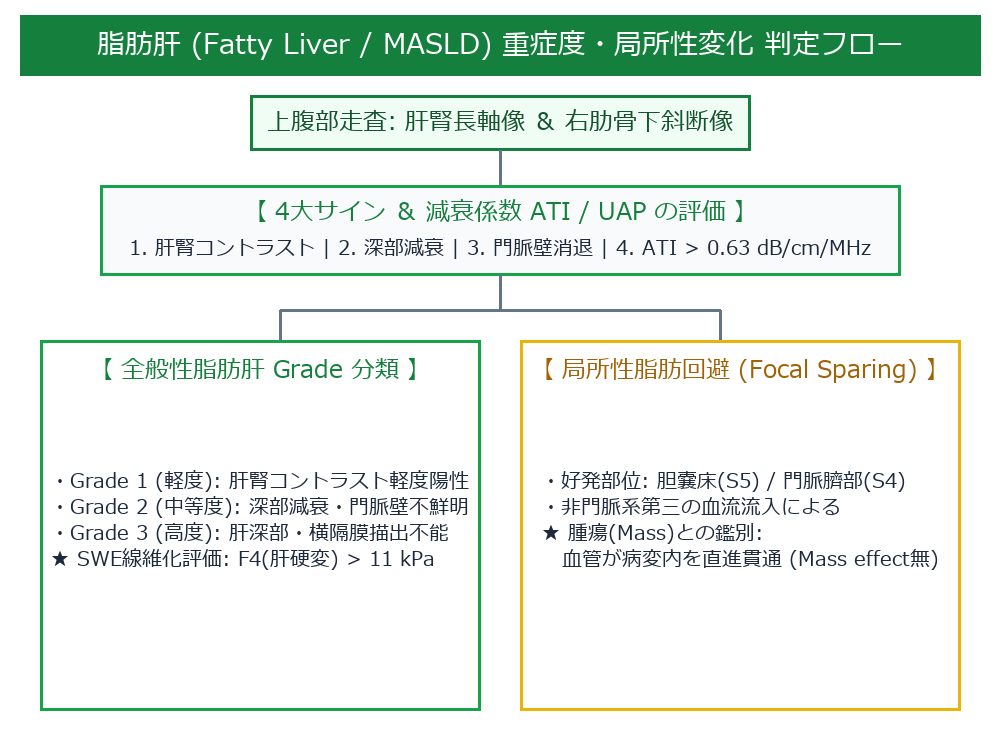
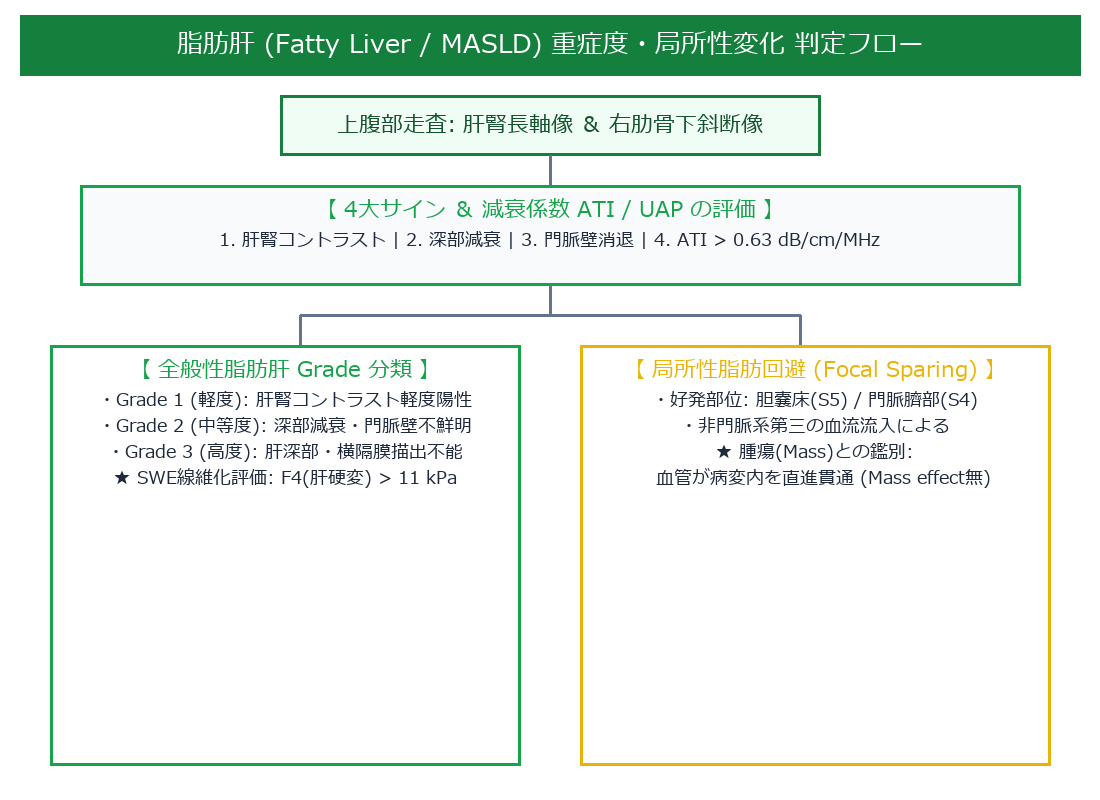
Adjust all flowchart PNG box sizes, line spacings, and canvas paddings for 100% perfect fit without text overflow

Changed region(s): [[0.031, 0.0307, 0.992, 0.9813]]

diff --git a/generate_perfect_fit_flowcharts.py b/generate_perfect_fit_flowcharts.py
@@ -1,0 +1,300 @@
+import os
+from PIL import Image, ImageDraw, ImageFont
+
+font_title = font_large = font_mid = font_small = None
+font_paths = ["C:/Windows/Fonts/meiryo.ttc", "C:/Windows/Fonts/msgothic.ttc", "C:/Windows/Fonts/arial.ttf"]
+
+for fp in font_paths:
+    if os.path.exists(fp):
+        try:
+            font_title = ImageFont.truetype(fp, 26)
+            font_large = ImageFont.truetype(fp, 22)
+            font_mid = ImageFont.truetype(fp, 18)
+            font_small = ImageFont.truetype(fp, 16)
+            break
+        except Exception:
+            continue
+
+if font_title is None:
+    font_title = font_large = font_mid = font_small = ImageFont.load_default()
+
+img_dir = r"C:\Antigravity\超音波検査\腹部超音波検査_教科書\03_疾患別超音波所見\images"
+os.makedirs(img_dir, exist_ok=True)
+
+# Helper to draw multiline centered text inside a box perfectly
+def draw_textbox(draw, box, fill_bg, outline_c, title, desc_lines, is_header=False):
+    x1, y1, x2, y2 = box
+    draw.rectangle(box, fill=fill_bg, outline=outline_c, width=3)
+    
+    # Title
+    t_y = y1 + 25 if desc_lines else (y1 + y2) // 2
+    draw.text(((x1 + x2) // 2, t_y), title, fill=outline_c if not is_header else "#ffffff", font=font_large, anchor="mm")
+    
+    # Desc lines
+    if desc_lines:
+        line_y = y1 + 55
+        for line in desc_lines:
+            draw.text(((x1 + x2) // 2, line_y), line, fill="#1e293b", font=font_mid, anchor="mm")
+            line_y += 26
+
+# 1. Pancreatic Mass (Perfect Fit)
+def make_panc_mass_fit():
+    w, h = 1100, 1000
+    img = Image.new("RGB", (w, h), (255, 255, 255))
+    draw = ImageDraw.Draw(img)
+    
+    # Header
+    draw.rectangle([(20, 15), (1080, 75)], fill="#1e3a8a")
+    draw.text((550, 45), "膵腫瘤性病変 (Pancreatic Mass) 完全分類フロー", fill="#ffffff", font=font_title, anchor="mm")
+    
+    # Root
+    draw.rectangle([(330, 95), (770, 155)], fill="#f1f5f9", outline="#1e3a8a", width=3)
+    draw.text((550, 125), "膵腫瘤性病変 (Pancreatic Mass)", fill="#1e293b", font=font_large, anchor="mm")
+    
+    # Lines
+    draw.line([(550, 155), (550, 180)], fill="#64748b", width=3)
+    draw.line([(280, 180), (820, 180)], fill="#64748b", width=3)
+    draw.line([(280, 180), (280, 205)], fill="#64748b", width=3)
+    draw.line([(820, 180), (820, 205)], fill="#64748b", width=3)
+    
+    # Category Headers
+    draw.rectangle([(50, 205), (510, 265)], fill="#dbeafe", outline="#2563eb", width=3)
+    draw.text((280, 235), "1. 固形腫瘤性病変 (Solid)", fill="#1e40af", font=font_large, anchor="mm")
+
+    draw.rectangle([(590, 205), (1050, 265)], fill="#fce7f3", outline="#db2777", width=3)
+    draw.text((820, 235), "2. 嚢胞性腫瘤性病変 (Cystic)", fill="#9d174d", font=font_large, anchor="mm")
+
+    # Left Solid Section
+    draw.rectangle([(30, 285), (530, 970)], fill="#f8fafc", outline="#94a3b8", width=2)
+    draw.text((280, 315), "【 固形腫瘤 (Solid Lesions) 】", fill="#1e3a8a", font=font_large, anchor="mm")
+
+    solid_items = [
+        ("通常型膵がん (PDAC)", ["浸潤性管がん (全体の約90%)", "低血流 / 主膵管高度拡張 (>3mm)"]),
+        ("膵神経内分泌腫瘍 (PanNET)", ["境界ナイフ様鮮明 / 多血性(Hyper)", "血流極めて豊富 / 主膵管拡張なし"]),
+        ("Solid Pseudopapillary (SPN)", ["10〜30代若い女性に好発", "固形 ＋ 出血壊死性嚢胞の混在"]),
+        ("自己免疫性膵炎 (AIP)", ["腫瘤形成性膵炎 (膵がん酷似)", "Capsule-like Rim / 主膵管狭小化"])
+    ]
+
+    y_start = 350
+    for title, lines in solid_items:
+        draw_textbox(draw, (50, y_start, 510, y_start + 135), "#ffffff", "#3b82f6", title, lines)
+        y_start += 150
+
+    # Right Cystic Section
+    draw.rectangle([(570, 285), (1070, 970)], fill="#f8fafc", outline="#94a3b8", width=2)
+    draw.text((820, 315), "【 嚢胞性腫瘤 (Cystic Lesions) 】", fill="#831843", font=font_large, anchor="mm")
+
+    cystic_items = [
+        ("IPMN (膵管内乳頭粘液性)", ["主膵管連通あり / 葡萄の房状", "壁結節 ≧ 5mm で即手術検討"]),
+        ("MCN (粘液性嚢胞腫瘍)", ["中年女性・膵尾部 / 厚い被膜", "潜在的悪性 (原則全例手術)"]),
+        ("SCN (漿液性嚢胞腫瘍)", ["ハニカム像 / 中央星状石灰化", "ほぼ100%良性 (経過観察)"]),
+        ("仮性嚢胞 (Pseudocyst)", ["膵炎既往 / 単房性無エコー", "非腫瘍性嚢胞"])
+    ]
+
+    y_start = 350
+    for title, lines in cystic_items:
+        border_c = "#ec4899" if "IPMN" in title or "MCN" in title or "SCN" in title else "#6b7280"
+        draw_textbox(draw, (590, y_start, 1050, y_start + 135), "#ffffff", border_c, title, lines)
+        y_start += 150
+
+    path = os.path.join(img_dir, "pancreatic_mass_classification.png")
+    img.save(path, quality=95)
+    print("Perfect Fit: pancreatic_mass_classification.png")
+
+# 2. Cholecystitis Flow (Perfect Fit)
+def make_chole_fit():
+    w, h = 1100, 800
+    img = Image.new("RGB", (w, h), (255, 255, 255))
+    draw = ImageDraw.Draw(img)
+    
+    draw.rectangle([(20, 15), (1080, 75)], fill="#991b1b")
+    draw.text((550, 45), "TG18/13 急性胆嚢炎 (Cholecystitis) 診断フロー", fill="#ffffff", font=font_title, anchor="mm")
+    
+    draw_textbox(draw, (280, 95, 820, 155), "#fee2e2", "#991b1b", "右上腹部痛 ＋ 発熱 ＋ 炎症反応陽性", [], True)
+    draw.rectangle([(280, 95), (820, 155)], fill="#fee2e2", outline="#991b1b", width=3)
+    draw.text((550, 125), "右上腹部痛 ＋ 発熱 ＋ 炎症反応陽性", fill="#7f1d1d", font=font_large, anchor="mm")
+
+    draw.line([(550, 155), (550, 185)], fill="#64748b", width=3)
+    
+    draw_textbox(draw, (80, 185, 1020, 285), "#f8fafc", "#dc2626", "【 Bモード4大サインの評価 】", [
+        "1. 壁肥厚 >3mm | 2. 二重壁像 (浮腫状層) | 3. 胆嚢腫大 (短径≧4cm) | 4. 嵌頓結石"
+    ])
+    
+    draw.line([(550, 285), (550, 315)], fill="#64748b", width=3)
+    
+    draw_textbox(draw, (150, 315, 950, 405), "#fef2f2", "#b91c1c", "直視下 探触子圧迫試行", [
+        "超音波 Murphy 徴候 陽性 (胆嚢直上で痛覚最高潮 ＋ 吸気中断)"
+    ])
+    
+    draw.line([(550, 405), (550, 435)], fill="#64748b", width=3)
+    draw.line([(300, 435), (800, 435)], fill="#64748b", width=3)
+    draw.line([(300, 435), (300, 465)], fill="#64748b", width=3)
+    draw.line([(800, 435), (800, 465)], fill="#64748b", width=3)
+    
+    draw_textbox(draw, (50, 465, 520, 760), "#ffffff", "#dc2626", "★ 急性胆嚢炎 確診 (確定)", [
+        "・早期腹腔鏡下胆嚢摘出術 (Lap-C) 検討",
+        "・壊疽性サイン (壁連続性断裂/脱落膜)",
+        "・気腫性サイン (Dirty shadow/Ring-down)"
+    ])
+    
+    draw_textbox(draw, (580, 465, 1050, 760), "#ffffff", "#64748b", "慢性胆嚢炎 / 他疾患の考慮", [
+        "・胆嚢壁全周性高度線維化肥厚",
+        "・Porcelain GB (陶器様胆嚢石灰化)",
+        "・肝炎 / 右心不全による二次性壁浮腫鑑別"
+    ])
+    
+    path = os.path.join(img_dir, "cholecystitis_flowchart.png")
+    img.save(path, quality=95)
+    print("Perfect Fit: cholecystitis_flowchart.png")
+
+# 3. Hydronephrosis (Perfect Fit)
+def make_hydro_fit():
+    w, h = 1100, 780
+    img = Image.new("RGB", (w, h), (255, 255, 255))
+    draw = ImageDraw.Draw(img)
+    
+    draw.rectangle([(20, 15), (1080, 75)], fill="#4c1d95")
+    draw.text((550, 45), "水腎症 (Hydronephrosis) SFU Grade 1～4 判定フロー", fill="#ffffff", font=font_title, anchor="mm")
+    
+    y = 105
+    grades = [
+        ("Grade 1 (軽度)", ["腎盂のみの分離・軽度拡張 (Pelvis Expansion Only)", "腎杯拡張なし / 腎実質厚正常"], "#f3e8ff", "#6b21a8"),
+        ("Grade 2 (中等度)", ["腎盂拡張 ＋ 主要腎杯 (Major Calyces) の軽度拡張", "腎実質厚正常"], "#e9d5ff", "#6b21a8"),
+        ("Grade 3 (高度)", ["腎盂 ＋ 全腎杯 (Minor Calyces) 水疱状・クラゲ様拡張", "腎実質厚は保たれる"], "#d8b4fe", "#581c87"),
+        ("Grade 4 (重症)", ["全腎杯極度拡張 ＋ ★ 腎実質の菲薄化 (実質厚 < 10mm)", "腎機能不可逆的障害の危険信号"], "#fee2e2", "#991b1b")
+    ]
+    
+    for title, lines, bg_c, text_c in grades:
+        draw_textbox(draw, (50, y, 1050, y + 140), bg_c, text_c, title, lines)
+        y += 160
+        
+    path = os.path.join(img_dir, "hydronephrosis_sfu_flowchart.png")
+    img.save(path, quality=95)
+    print("Perfect Fit: hydronephrosis_sfu_flowchart.png")
+
+# 4. GB Polyps & ADM (Perfect Fit)
+def make_gb_polyps_fit():
+    w, h = 1100, 800
+    img = Image.new("RGB", (w, h), (255, 255, 255))
+    draw = ImageDraw.Draw(img)
+    
+    draw.rectangle([(20, 15), (1080, 75)], fill="#065f46")
+    draw.text((550, 45), "胆嚢隆起性病変・ADM 超音波鑑別 10mm アルゴリズム", fill="#ffffff", font=font_title, anchor="mm")
+    
+    draw.rectangle([(300, 95), (800, 155)], fill="#ecfdf5", outline="#065f46", width=3)
+    draw.text((550, 125), "胆嚢腔内 隆起性病変 / 壁肥厚の検出", fill="#065f46", font=font_large, anchor="mm")
+    
+    draw.line([(550, 155), (550, 185)], fill="#64748b", width=3)
+    draw.line([(280, 185), (820, 185)], fill="#64748b", width=3)
+    draw.line([(280, 185), (280, 215)], fill="#64748b", width=3)
+    draw.line([(820, 185), (820, 215)], fill="#64748b", width=3)
+    
+    draw_textbox(draw, (50, 215, 510, 485), "#f0fdf4", "#16a34a", "【 病変径 < 10.0 mm (1cm未満) 】", [
+        "・コレステロールポリープ (90%以上)",
+        "  (桑実像 Mulberry / 有茎性 / 微小点状高エコー)",
+        "・超音波経過観察 (6〜12ヶ月毎)",
+        "・急増傾向がないかチェック"
+    ])
+    
+    draw_textbox(draw, (590, 215, 1050, 485), "#fef2f2", "#dc2626", "【 病変径 ≧ 10.0 mm (1cm以上) 】", [
+        "・胆嚢がん (Carcinoma) / 腺腫疑い",
+        "・広基性 (Broad-based) / 茎が太い像",
+        "・壁層構造の断裂・局所浸潤像",
+        "★ EUS (超音波内視鏡) ＆ 手術検討"
+    ])
+    
+    draw_textbox(draw, (50, 515, 1050, 765), "#eff6ff", "#2563eb", "【 胆嚢腺筋腫症 (ADM: Adenomyomatosis) の鑑別 】", [
+        "・Comet-tail Artifact (RAS内コレステロール結晶による彗星の尾様多重反射)",
+        "・壁内無エコー像 (Anechoic Microcysts: 1〜3mmの小嚢胞)",
+        "・3形態分類: 1. 底部型 (Fundal) | 2. 節状型 (Segmental) | 3. びまん型 (Diffuse)"
+    ])
+    
+    path = os.path.join(img_dir, "gb_polyps_adm_flowchart.png")
+    img.save(path, quality=95)
+    print("Perfect Fit: gb_polyps_adm_flowchart.png")
+
+# 5. Fatty Liver (Perfect Fit)
+def make_fatty_fit():
+    w, h = 1100, 800
+    img = Image.new("RGB", (w, h), (255, 255, 255))
+    draw = ImageDraw.Draw(img)
+    
+    draw.rectangle([(20, 15), (1080, 75)], fill="#15803d")
+    draw.text((550, 45), "脂肪肝 (Fatty Liver / MASLD) 重症度・局所性変化 判定フロー", fill="#ffffff", font=font_title, anchor="mm")
+    
+    draw.rectangle([(280, 95), (820, 155)], fill="#f0fdf4", outline="#15803d", width=3)
+    draw.text((550, 125), "上腹部走査: 肝腎長軸像 ＆ 右肋骨下斜断像", fill="#14532d", font=font_large, anchor="mm")
+    
+    draw.line([(550, 155), (550, 185)], fill="#64748b", width=3)
+    
+    draw_textbox(draw, (80, 185, 1020, 285), "#f8fafc", "#16a34a", "【 4大サイン ＆ 減衰係数 ATI / UAP の評価 】", [
+        "1. 肝腎コントラスト | 2. 深部減衰 | 3. 門脈壁消退 | 4. ATI > 0.63 dB/cm/MHz"
+    ])
+    
+    draw.line([(550, 285), (550, 315)], fill="#64748b", width=3)
+    draw.line([(300, 315), (800, 315)], fill="#64748b", width=3)
+    draw.line([(300, 315), (300, 345)], fill="#64748b", width=3)
+    draw.line([(800, 315), (800, 345)], fill="#64748b", width=3)
+    
+    draw_textbox(draw, (50, 345, 520, 765), "#ffffff", "#16a34a", "【 全般性脂肪肝 Grade 分類 】", [
+        "・Grade 1 (軽度): 肝腎コントラスト軽度陽性",
+        "・Grade 2 (中等度): 深部減衰・門脈壁不鮮明",
+        "・Grade 3 (高度): 肝深部・横隔膜描出不能",
+        "★ SWE線維化評価: F4(肝硬変) > 11 kPa"
+    ])
+    
+    draw_textbox(draw, (580, 345, 1050, 765), "#ffffff", "#eab308", "【 局所性脂肪回避 (Focal Sparing) 】", [
+        "・好発部位: 胆嚢床(S5) / 門脈臍部(S4)",
+        "・非門脈系第三の血流流入による",
+        "★ 腫瘍(Mass)との鑑別:",
+        "   血管が病変内を直進貫通 (Mass effect無)"
+    ])
+    
+    path = os.path.join(img_dir, "liver_fatty_flowchart.png")
+    img.save(path, quality=95)
+    print("Perfect Fit: liver_fatty_flowchart.png")
+
+# 6. Appendicitis (Perfect Fit)
+def make_app_fit():
+    w, h = 1100, 800
+    img = Image.new("RGB", (w, h), (255, 255, 255))
+    draw = ImageDraw.Draw(img)
+    
+    draw.rectangle([(20, 15), (1080, 75)], fill="#c2410c")
+    draw.text((550, 45), "急性虫垂炎 (Acute Appendicitis) 超音波診断・期別フロー", fill="#ffffff", font=font_title, anchor="mm")
+    
+    draw.rectangle([(280, 95), (820, 155)], fill="#fff7ed", outline="#c2410c", width=3)
+    draw.text((550, 125), "右下腹部 段階的圧迫走査 (Graded Compression)", fill="#9a3412", font=font_large, anchor="mm")
+    
+    draw.line([(550, 155), (550, 185)], fill="#64748b", width=3)
+    
+    draw_textbox(draw, (80, 185, 1020, 285), "#f8fafc", "#ea580c", "【 虫垂の描出 ＆ 圧迫消退性の確認 】", [
+        "1. 虫垂外径 > 6.0 mm | 2. 圧迫非消退 (丸い断面のまま) | 3. Sonographic McBurney 陽性"
+    ])
+    
+    draw.line([(550, 285), (550, 315)], fill="#64748b", width=3)
+    
+    draw.rectangle([(40, 315), (1060, 765)], fill="#ffffff", outline="#c2410c", width=3)
+    draw.text((550, 345), "【 病理病態期別の観察基準 】", fill="#9a3412", font=font_large, anchor="mm")
+    
+    stages = [
+        ("カタル性 (Catarrhal)", ["外径 6-8mm / 5層構造完全保持 / 軽度血流増加"], "#ffedd5", "#9a3412"),
+        ("蜂窩織炎性 (Phlegmonous)", ["外径 8-12mm / 粘膜下層肥厚 / ★ 著明な壁内血流増加 (Hyperemia)"], "#fed7aa", "#9a3412"),
+        ("壊疽性 (Gangrenous)", ["外径 > 10mm / 壁層構造断裂 / ★ 壁内血流の完全消失 (無血流/壊死)"], "#fee2e2", "#991b1b")
+    ]
+    
+    y = 385
+    for title, lines, bg_c, text_c in stages:
+        draw_textbox(draw, (60, y, 1040, y + 110), bg_c, text_c, title, lines)
+        y += 125
+        
+    path = os.path.join(img_dir, "appendicitis_flowchart.png")
+    img.save(path, quality=95)
+    print("Perfect Fit: appendicitis_flowchart.png")
+
+make_panc_mass_fit()
+make_chole_fit()
+make_hydro_fit()
+make_gb_polyps_fit()
+make_fatty_fit()
+make_app_fit()
